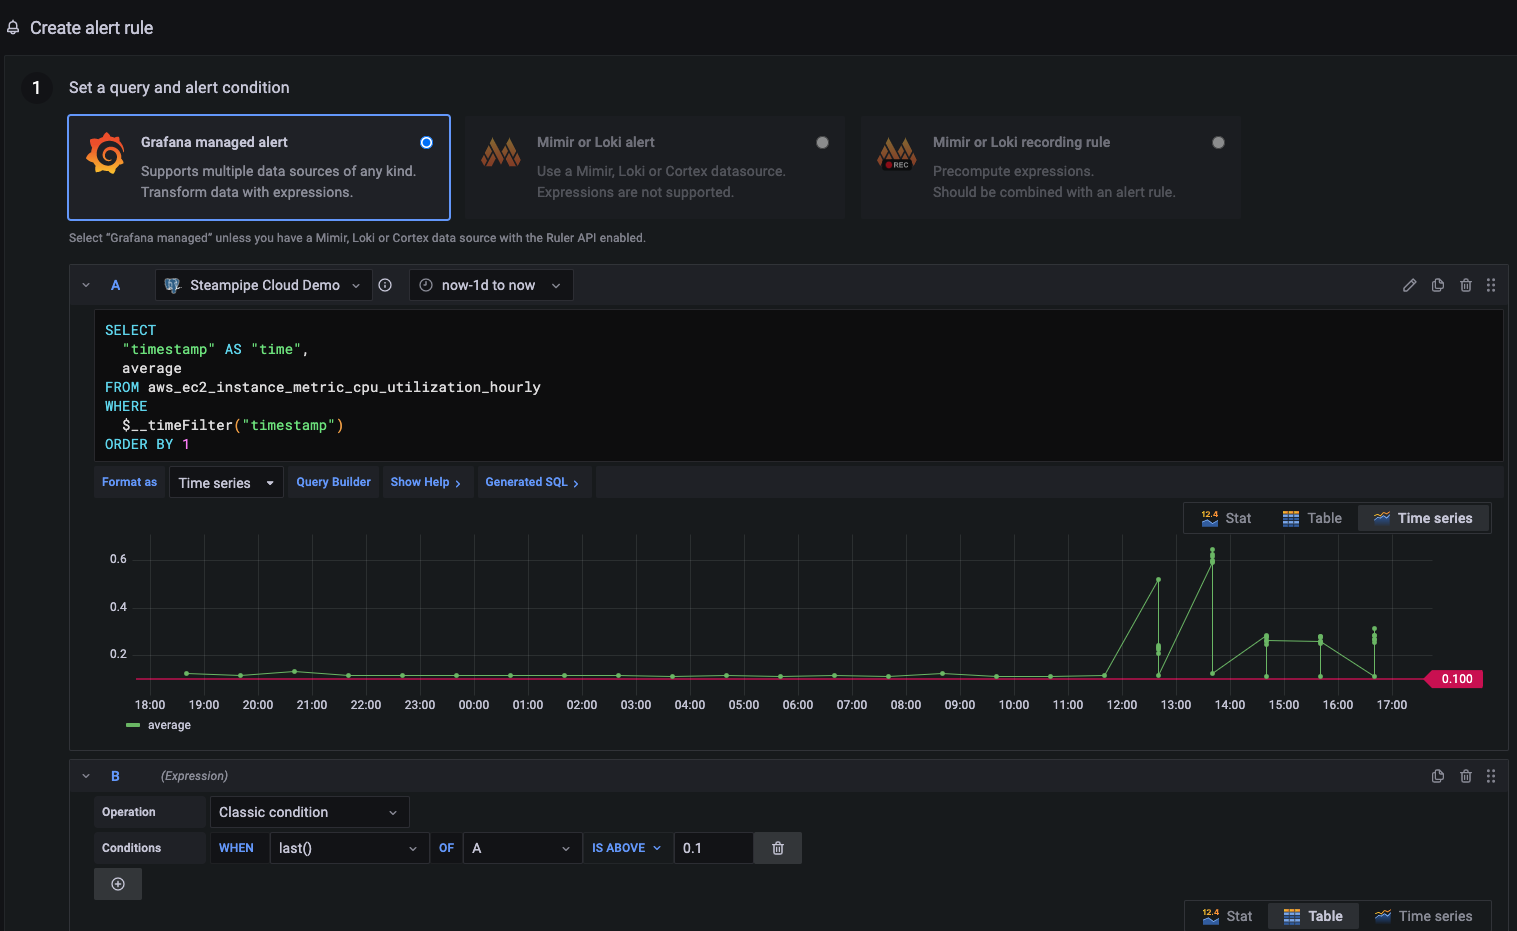
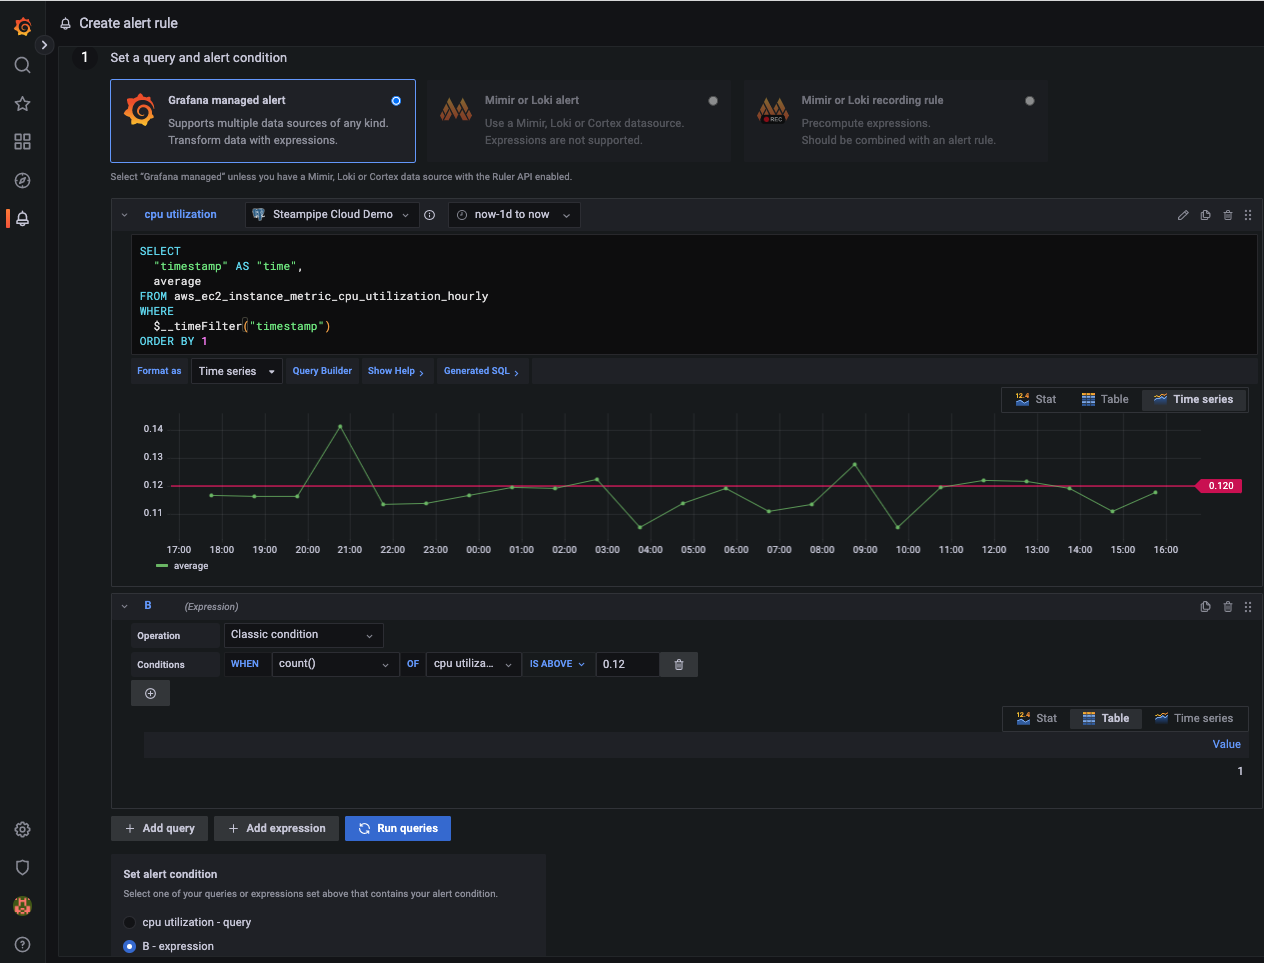
Update > Review Comments > Grafana

diff --git a/docs/cloud/integrations/grafana.md b/docs/cloud/integrations/grafana.md
@@ -5,7 +5,7 @@ sidebar_label: Grafana
 
 ##  Connect to Steampipe Cloud from Grafana
 
-[Grafana](https://grafana.com/) is a visualization tool that connects to many databases including Postgres, and enables users to query, monitor, create alerts and analyze metrics through dashboards.
+[Grafana](https://grafana.com/) is a visualization tool that connects to many databases including Postgres, and enables users to query, monitor, create alerts and analyze metrics.
 
 Steampipe provides a single interface to all your cloud, code, logs and more. Because it's built on Postgres, Steampipe provides an endpoint that any Postgres-compatible client -- including Grafana -- can connect to.
 
@@ -32,15 +32,15 @@ Database:
 
 ## Getting started
 
-[Grafana](https://grafana.com/docs/grafana/latest/setup-grafana/installation/) is a open source interactive data-visualization platform that runs on the cloud, or in a container, or the desktop. To use Grafana you will need to sign up and create an account. Here, we will use the desktop version.
+[Grafana](https://grafana.com/docs/grafana/latest/setup-grafana/installation/) is an open-source interactive data-visualization platform that runs on the cloud, or in a container, or on the desktop. To use Grafana you will need to sign up and create an account. Here, we will use the desktop version.
 
-With Grafana up and running, you can access it from the browser through `http://localhost:3000`. Click on `Data Sources` under the configuration option, then click `Add Data Source`, select `PostgreSQL` and enter the connection details. Since there is no field for port number, it should be added with the host as `Host:Port` and set the TLS/SSL mode to `Require`. Then click `Save & Test` to test your connection.
+With Grafana up and running, open a browser to `http://localhost:3000`. Click on `Data Sources` under the configuration option, then click `Add Data Source`, select `PostgreSQL`, and enter the connection details. Since there is no field for port number, use the syntax `Host:Port`. Set the TLS/SSL mode to `Require`, then click `Save & Test` to test your connection.
 
 <div style={{"marginTop":"1em", "marginBottom":"1em", "width":"90%"}}>
 <img src="/images/docs/cloud/grafana-connection-success.png" />
 </div>
 
-The plugins and it's tables can be accessed through the `Explore` tab and the `Edit SQL` option can be used to customize the queries.
+The plugins and its tables are available from the `Explore` tab. Use `Edit SQL` to customize the queries.
 
 <div style={{"marginTop":"1em", "marginBottom":"1em", "width":"50%"}}>
 <img src="/images/docs/cloud/grafana-explore-tables.png" />
@@ -52,9 +52,10 @@ The data can be previewed in a `Table format` or `Time series`. Here we see the 
 <img src="/images/docs/cloud/grafana-table-format-data-preview.png" />
 </div>
 
-## Dashborad to monitor resources and cost
+## Dashboard to monitor resources and cost
 
-Grafana uses panels as the building blocks of a dashboard that consists of queries, graphs, aliases, etc. We'll focus here on creating a dashboard to monitor AWS services and Cost. To being click on `Dashboards` and create a new dashboard. On the empty dashboard click `Add panel` to create a panel and select `aws_ebs_volume_metric_read_ops_daily` from the query builder, then click `Apply`. Now add panels for `aws_ec2_instance_metric_cpu_utilization_hourly`, `aws_s3_bucket_by_region` and `aws_vpc_by_region`. Similarly paste the query into a new panel to monitor the top 10 monthly costs by service.
+Panels that display charts and tables are the building blocks of Grafana dashboards. We'll focus here on a dashboard to monitor AWS services and costs. To begin, click `Dashboards` and create a new dashboard. On the empty dashboard click `Add panel`, then select `aws_ebs_volume_metric_read_ops_daily` from the query builder and click `Apply`.
+Then add panels for `aws_ec2_instance_metric_cpu_utilization_hourly`, `aws_s3_bucket_by_region` and `aws_vpc_by_region`. And finally paste this query, which monitors the top ten monthly costs by service, into a new panel.
 
 ```
 select
@@ -69,7 +70,8 @@ order by
   average desc
 limit 10;
 ```
-Grafana gives a wide range of graphics that you can use to represent the data in each panel. Now with the created panels we have our AWS Monitoring dashboard ready.
+
+Grafana provides a variety of chart types. Here we use `Time series` for aws_ebs_volume_metric_read_ops_daily, `Bar chart` for aws_ec2_instance_metric_cpu_utilization_hourly, `Pie chart` for aws_s3_bucket_by_region, `Bar gauge` for aws_vpc_by_region and `Table` for top ten monthly costs by service.
 
 <div style={{"marginTop":"1em", "marginBottom":"1em", "width":"90%"}}>
 <img src="/images/docs/cloud/grafana-dashboard.png" />
@@ -77,7 +79,7 @@ Grafana gives a wide range of graphics that you can use to represent the data in
 
 ## Import a dashboard with JSON file
 
-Since, a dashboard in Grafana is represented by a JSON object, which stores its metadata. We can [import a dashboard](https://grafana.com/docs/grafana/v9.0/dashboards/export-import/#import-dashboard) using json input. To import click `Import` under the Dashboards icon in the side menu and paste the below code to create a AWS S3 dashboard. With the Enterprise licensed feature you can send the dashboards as reports.
+A Grafana dashboard is represented by a JSON object that stores its metadata. Here is the JSON definition for an AWS S3 dashboard.
 
 <details>
   <summary>AWS S3 JSON</summary>
@@ -978,9 +980,12 @@ Since, a dashboard in Grafana is represented by a JSON object, which stores its 
 <img src="/images/docs/cloud/grafana-aws-s3-dashboard.png" />
 </div>
 
+To import it, click `Import` under the Dashboards icon in the side menu, then copy and paste the JSON.
+
 ## Send alerts
 
-Suppose you'd like to be notified when the CPU utilization crosses a threshold value. You can use Grafana's `Alerting` feature to create an `Alert Rule` with this query and expression to evaluate the threshold value.
+Suppose you'd like to be notified when the CPU utilization crosses a threshold value. You can achieve that with Grafana's `Alerting` feature. To start go to `Alert Rules` under the Alerting tab, then click `New Alert Rule` and paste this query under `
+Set a query and alert condition`. Then we set an [Expression](https://grafana.com/docs/grafana/latest/panels-visualizations/query-transform-data/expression-queries/#about-expressions) with a classic condition operation to trigger an alert when the CPU utilization goes above the set value.
 
 ```
 select
@@ -996,15 +1001,15 @@ order by 1
 <img src="/images/docs/cloud/grafana-alerting-rules.png" />
 </div>
 
-You can set up [Contact-points](https://grafana.com/docs/grafana/latest/alerting/contact-points/) to send alert notifications. Grafana evaluates the set criteria and fires alerts.
+Give your alert a name and set up [Contact-points](https://grafana.com/docs/grafana/latest/alerting/contact-points/) to that should receive these notifications. Here we see an alert sent to slack.
 
 <div style={{"marginTop":"1em", "marginBottom":"1em", "width":"50%"}}>
-<img src="/images/docs/cloud/grafana-slack-alert.png" />
+<img src="/images/docs/cloud/grafana-cpu-slack-alert.png" />
 </div>
 
 ## Summary
 
-With Metabase and Steampipe Cloud you can:
+With Grafana and Steampipe Cloud you can:
 
 - Create interactive dashboards driven by data from the tables and queries in your Steampipe Cloud workspace
 
